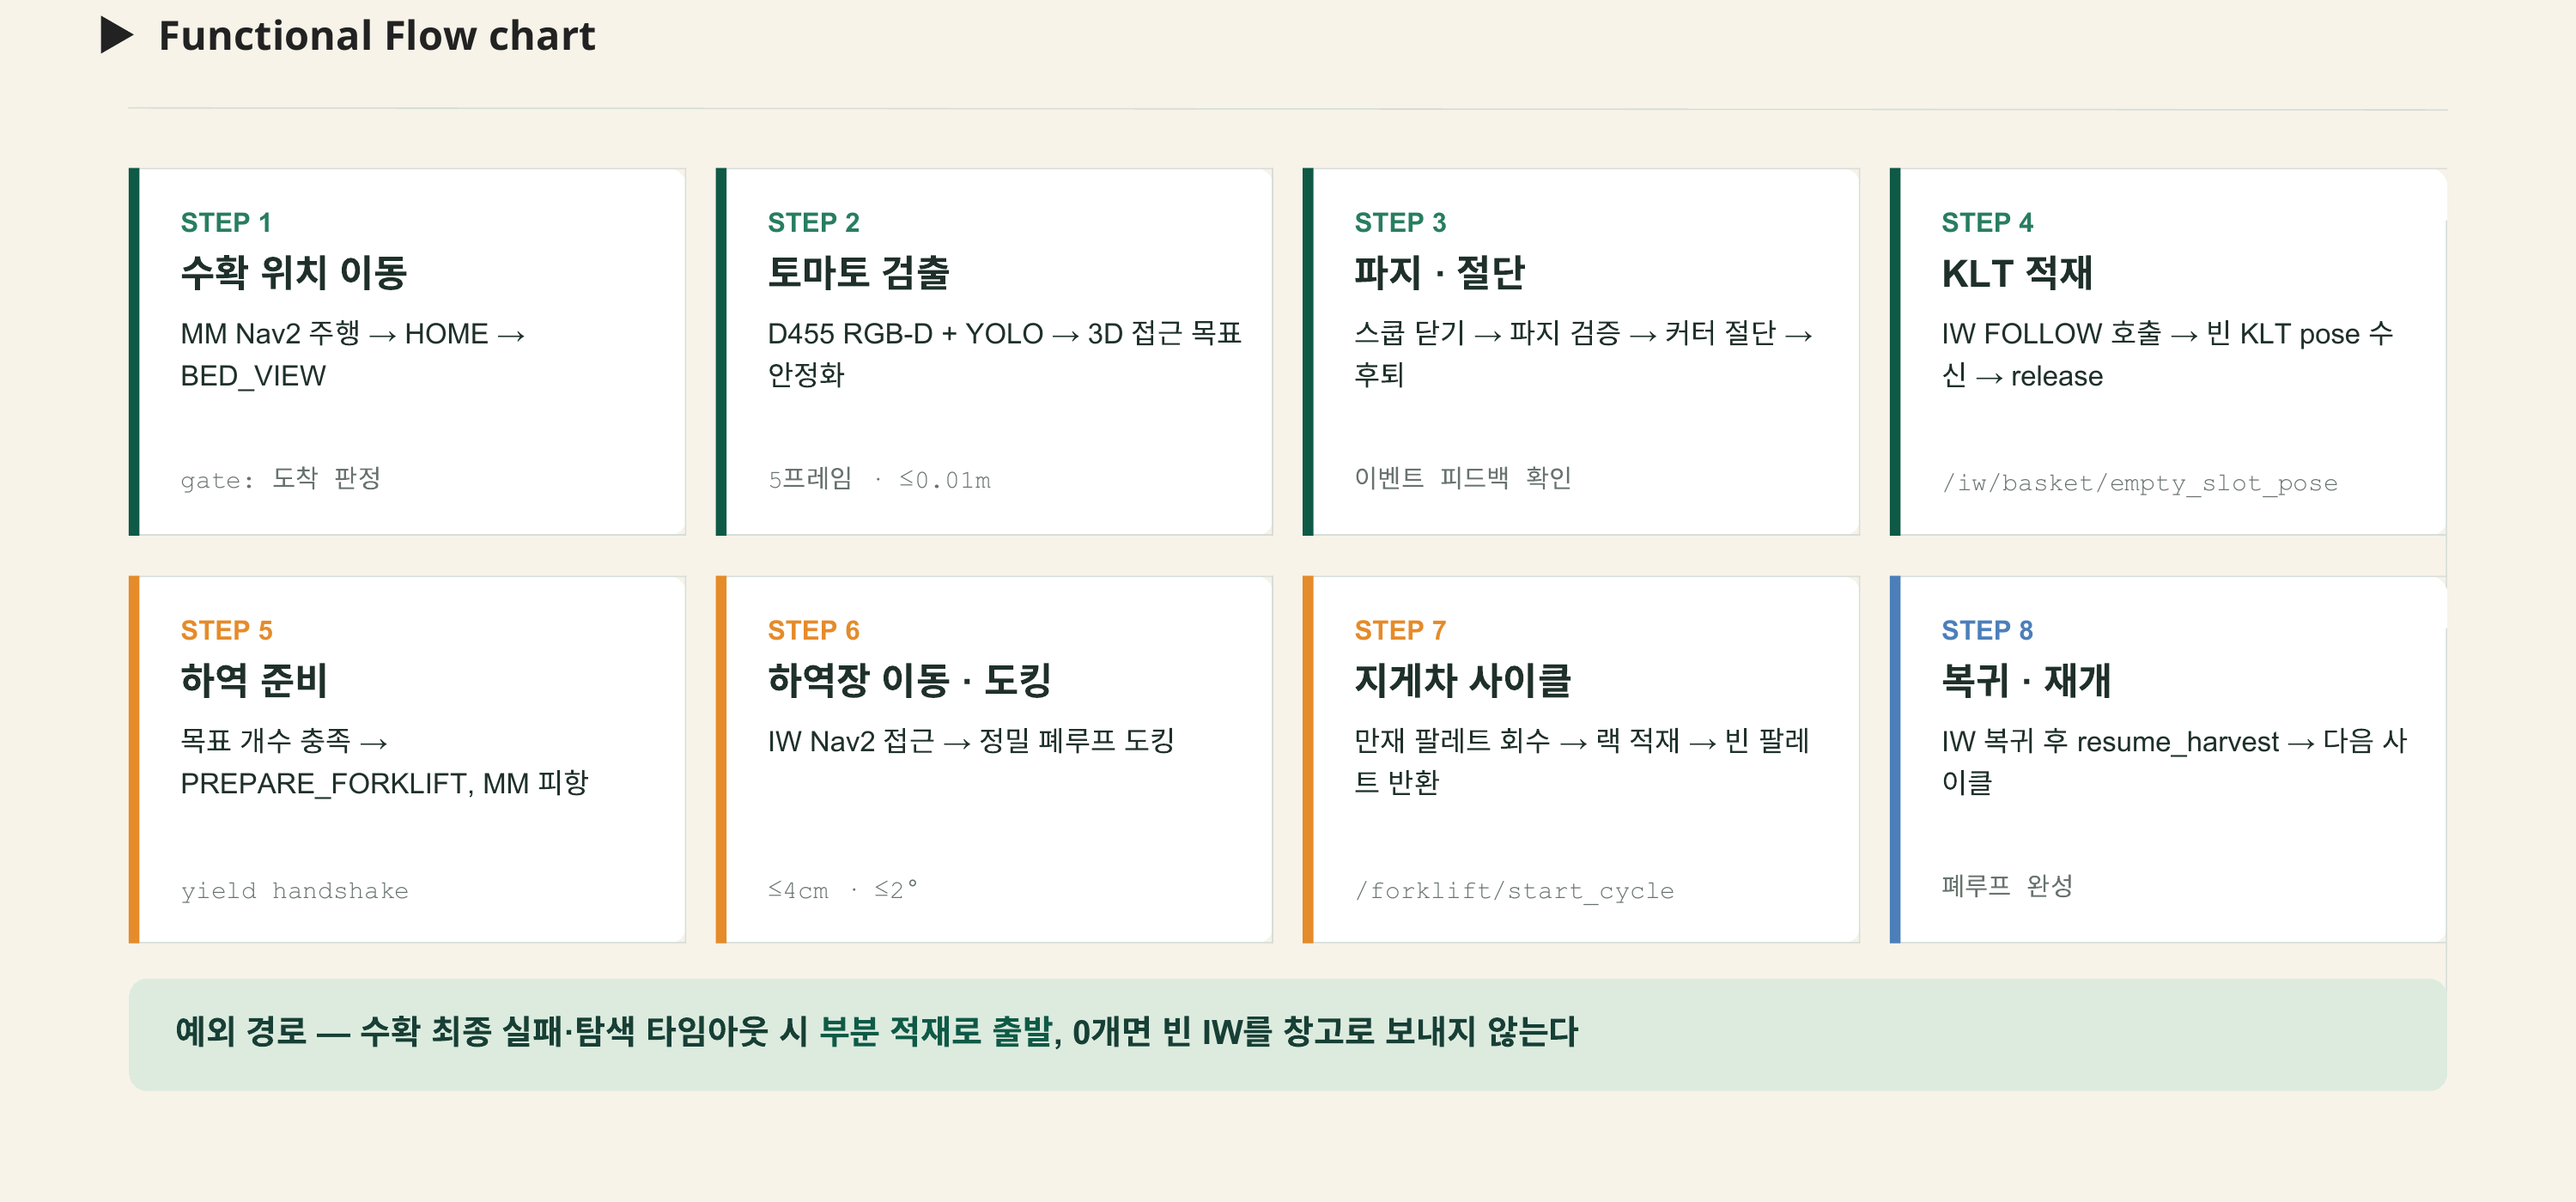
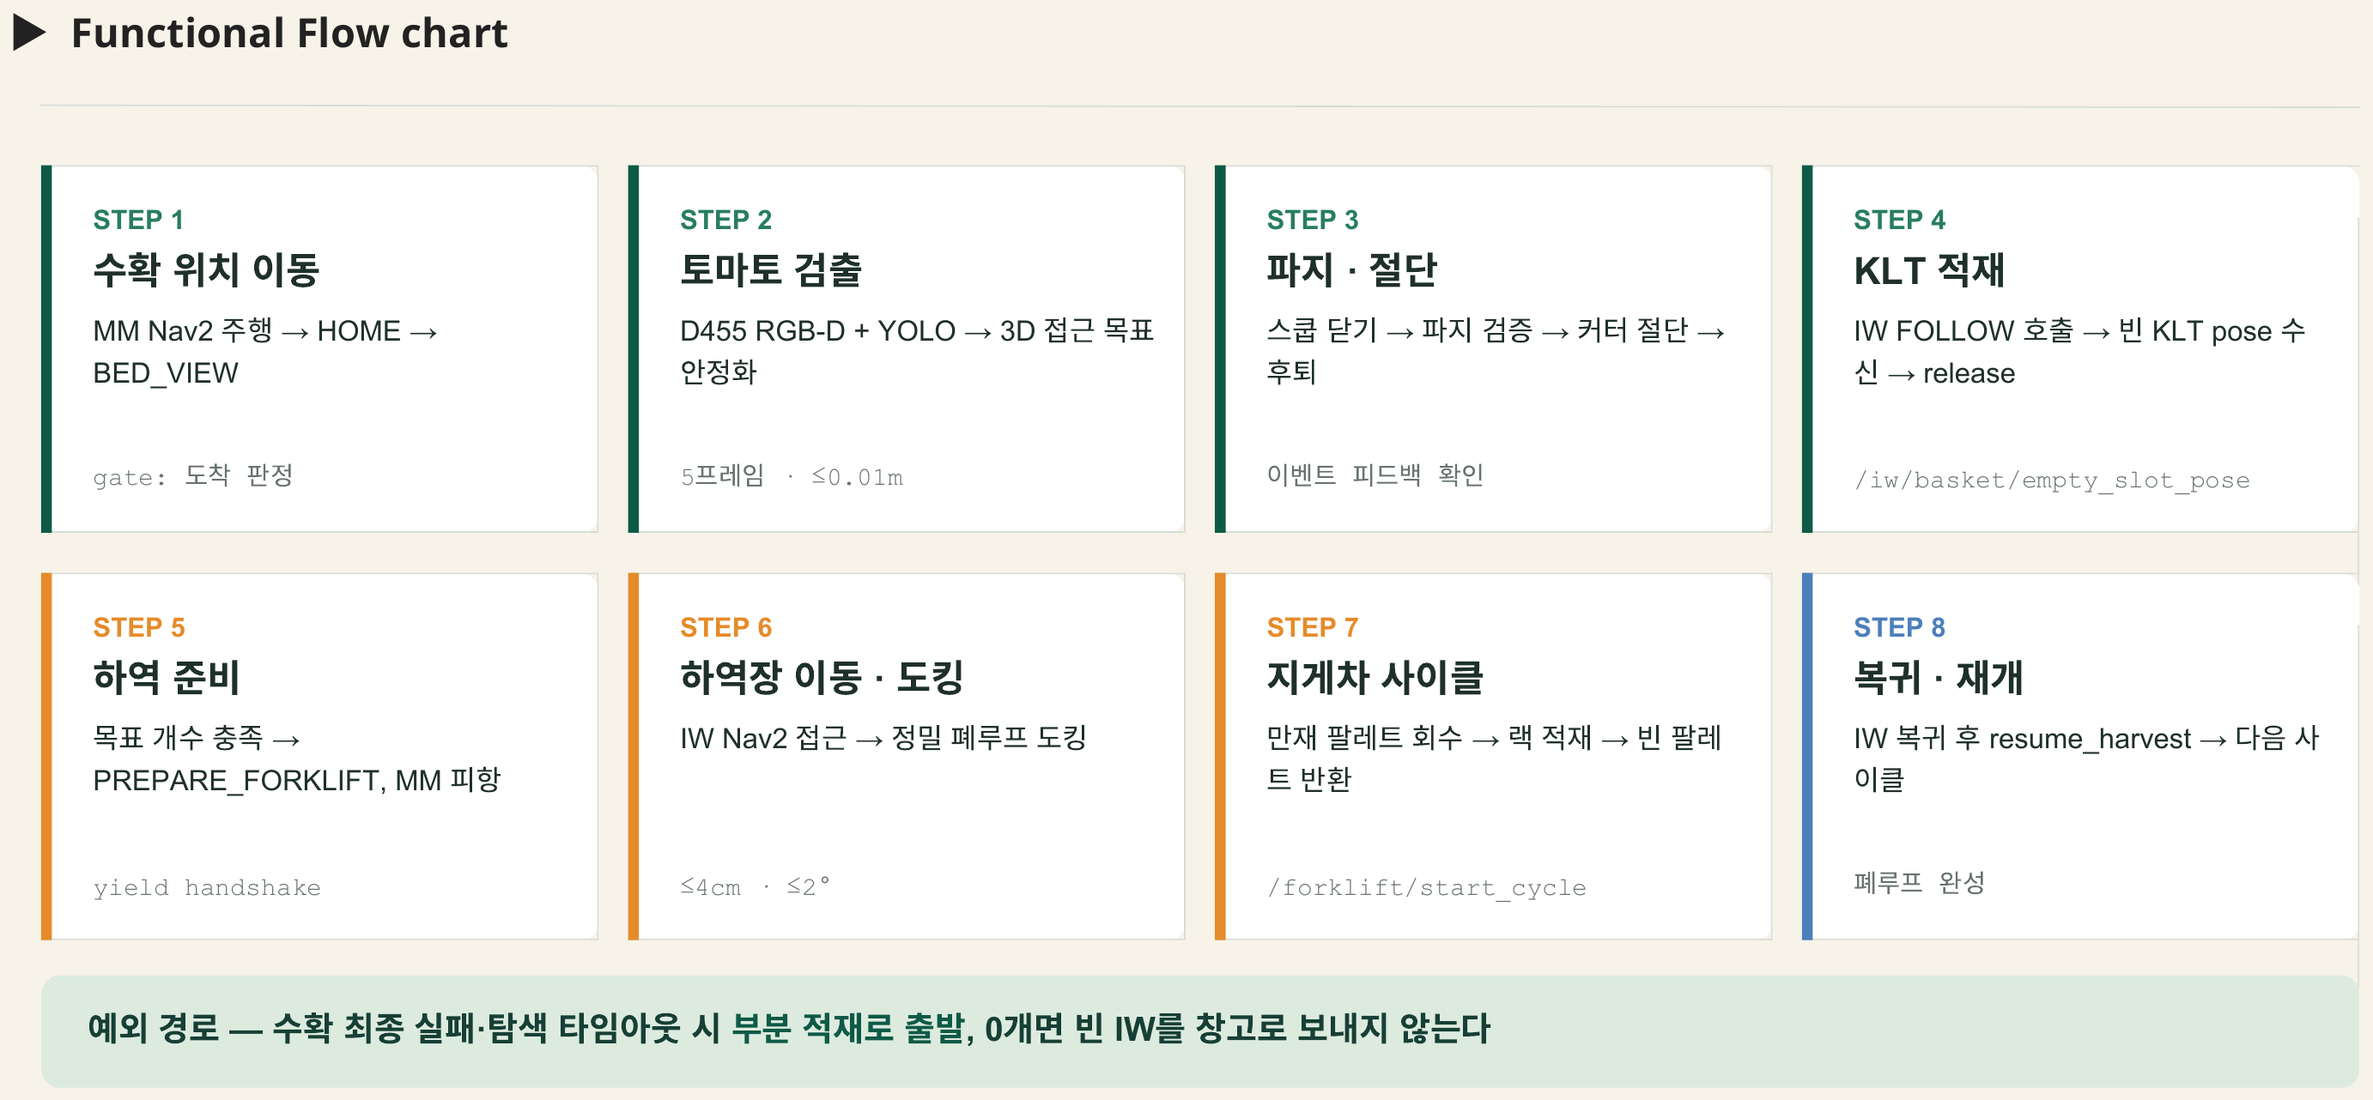
문서(README): 슬라이드 이미지 여백까지 타이트 크롭 + 서술을 현 통합 기준으로 통일
이미지 — 콘텐츠 경계를 측정해 바깥 여백과 페이지 번호까지 잘라냈다.
직전 커밋의 고정 크롭(3000x1400)은 좌우·하단 여백이 남아 있었다.
  system_architecture  2916x1436 (+56+237)
  node_architecture    2794x1312 (+96+237)
  functional_flow      2764x1282 (+102+223)

서술 — "원래는 A였으나 지금은 B" 식 부연을 걷어내고 현재 통합 실행이
하는 일만 적었다.
- 파지 좌표 보정: 검출 목표에 /harvester_0/sim/tomato를 더해 확정한다고
  단정 서술. "순수 RGB-D만으로 가는 경로는 아니다"는 부연 제거.
- 품질 판정: 기본값 False라는 조건 설명 대신 use_quality_model:=true로
  켠다고만 적음.
- 다이어그램 노드명이 실제 기동명과 다르다는 주석 제거. 실제 기동 노드는
  바로 위 노드 구성 표가 통합 기준으로 적혀 있다.

실행에 필요한 운영 지침(ROS_DOMAIN_ID 108 강제, Isaac python.sh 전용,
empy 빌드 오류 대처, ui/stream launch 중복 실행 주의)은 그대로 뒀다.

diff --git a/README.md b/README.md
@@ -22,8 +22,8 @@ Isaac Sim은 물리(PhysX)·센서·액추에이터만 담당합니다.
 - **거리 추정:** bbox 중심 영역의 **median depth**를 사용합니다. 단일 픽셀 depth는 잎 가림·노이즈에 취약해 중앙값으로 대표값을 잡습니다.
 - **3D 변환:** `CameraInfo`의 `fx, fy, cx, cy`로 픽셀 + depth를 카메라 광학 좌표계 3D 점으로 역투영합니다.
 - **안전 게이트:** 도달 불가 목표(workspace gate)는 모션 계획 **전에** 차단하고, 필요하면 베이스 재배치를 요청합니다.
-- **품질 판정(선택):** 근거리 `ripe`/`spoiled` 2클래스 모델(`finetuned_near.pt`)이 별도로 있으나, `use_quality_model` 기본값이 **`False`**라 기본 실행은 `tomato` 단일 클래스 탐지로 동작합니다.
-- **GT 보조(통합 실행):** 통합 launch는 `use_sim_ground_truth`·`direct_sim_grasp`를 `True`로 주므로, 최종 파지 좌표는 Isaac이 내려주는 시뮬레이션 ground truth로 보정됩니다. 순수 RGB-D 인식만으로 파지까지 가는 경로는 아닙니다.
+- **파지 좌표 보정:** 검출로 잡은 접근 목표에 Isaac이 발행하는 `/harvester_0/sim/tomato`를 더해 최종 파지 좌표를 확정합니다 (`use_sim_ground_truth`, `direct_sim_grasp`).
+- **품질 판정:** 근거리 `ripe`/`spoiled` 2클래스 모델(`finetuned_near.pt`)은 `use_quality_model:=true`로 켭니다.
 
 ### 2. 3단 스쿱 파지 및 절단 (Manipulation)
 
@@ -93,9 +93,6 @@ Isaac Sim은 물리(PhysX)·센서·액추에이터만 담당합니다.
 ![Node Architecture](docs/media/node_architecture.png)
 
 패키지별 노드와 토픽 / 서비스 / 액션 연결입니다. 실선 = Topic, 파선 = Service, 점선 = Action.
-
-> 두 다이어그램의 `harvest_fsm_node`는 실제 실행에서 이를 상속한 `fixed_harvest_moveit_node`로 기동되고,
-> `target_approach_node`는 현행 통합 launch에 포함되지 않습니다. 실제 기동 노드는 위 표를 참고하세요.
 
 ---
 
